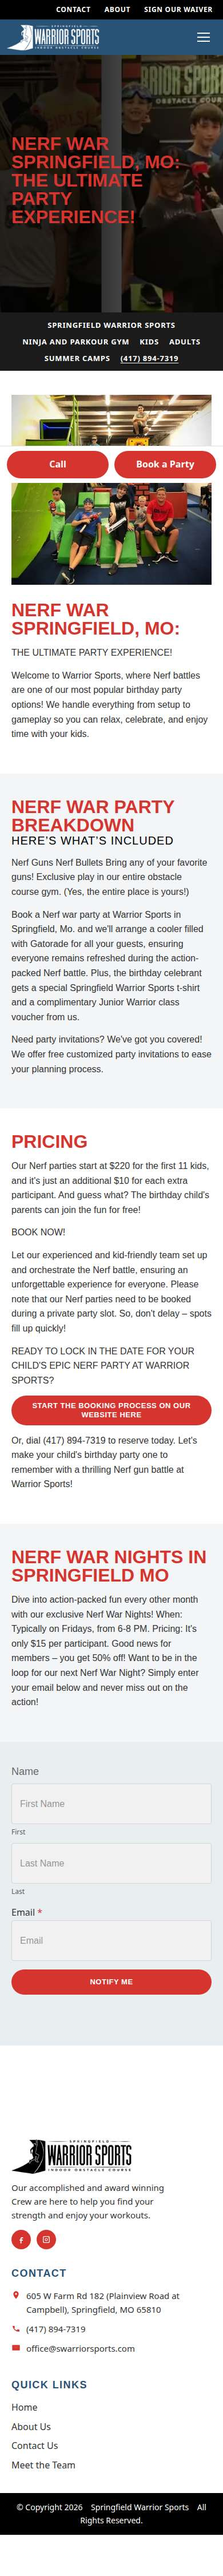
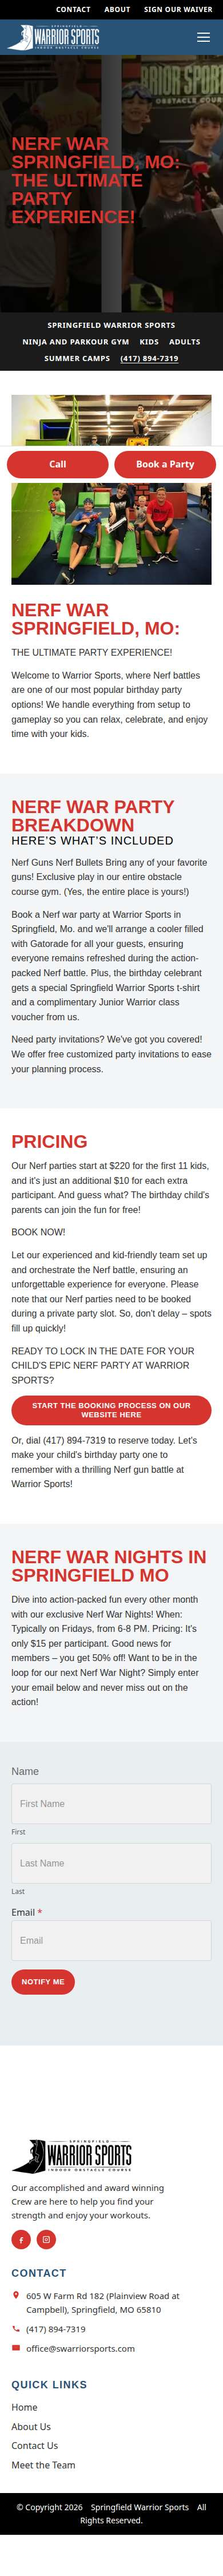
Match the contact photos, submit buttons, gym hours, and map.
The contact hero is the weight room, and the photos under the form are IMG_2339 and IMG_2342. Submit buttons size to their labels. Open Gym Hours is red, with each day name bold. The contact map still waits for the first scroll or tap, and the reserved box shows a street map.

Changed region(s): [[0.3077, 0.7463, 0.9538, 0.7774]]

diff --git a/src/styles/global.css b/src/styles/global.css
@@ -410,10 +410,23 @@ a {
 }
 .section .hours-title {
   margin: 16px 0 8px;
+  color: #db3a34;
   font-family: var(--font-thin);
-  font-size: 30px;
-  font-weight: 500;
+  font-size: 20px;
+  font-weight: 800;
   line-height: 1.2;
+}
+.section .hours-title strong {
+  font-weight: 800;
+}
+.icon-list strong {
+  font-weight: 700;
+}
+@media (min-width: 768px) {
+  .section .hours-title { font-size: 25px; }
+}
+@media (min-width: 1024px) {
+  .section .hours-title { font-size: 30px; }
 }
 
 .split {
@@ -752,6 +765,10 @@ a {
   display: grid;
   gap: 15px;
 }
+.lead-form > .btn {
+  justify-self: start;
+  width: fit-content;
+}
 .lead-form .label,
 .lead-form legend {
   display: block;
@@ -871,13 +888,65 @@ a {
   border: 0;
 }
 .map-frame {
-  min-height: 320px;
-  background: var(--color-ws-band);
+  position: relative;
+  height: 70vh;
+  min-height: 280px;
+  overflow: hidden;
+  background: #f2efe9;
+}
+.map-art {
+  position: absolute;
+  inset: 0;
+  width: 100%;
+  height: 100%;
+  object-fit: cover;
+}
+.map-credit {
+  position: absolute;
+  top: 8px;
+  right: 8px;
+  z-index: 1;
+  margin: 0;
+  padding: 2px 6px;
+  background: rgba(255, 255, 255, 0.88);
+  color: #333;
+  font-family: var(--font-body);
+  font-size: 11px;
+  font-weight: 400;
+  line-height: 1.3;
+}
+.map-fallback {
+  position: absolute;
+  right: 16px;
+  bottom: 16px;
+  left: 16px;
+  display: flex;
+  flex-wrap: wrap;
+  gap: 10px;
+  align-items: center;
+  justify-content: space-between;
+  padding: 10px 12px;
+  background: rgba(255, 255, 255, 0.94);
+  border-radius: 8px;
+}
+.map-fallback p {
+  margin: 0;
+  color: #333;
+  font-family: var(--font-body);
+  font-size: 15px;
+  font-weight: 400;
+  line-height: 1.4;
 }
 .map-frame iframe {
+  position: absolute;
+  inset: 0;
   width: 100%;
-  height: 360px;
+  height: 100%;
   border: 0;
+}
+.map-frame iframe.map-pending {
+  opacity: 0;
+  pointer-events: none;
 }
 
 .steps {
